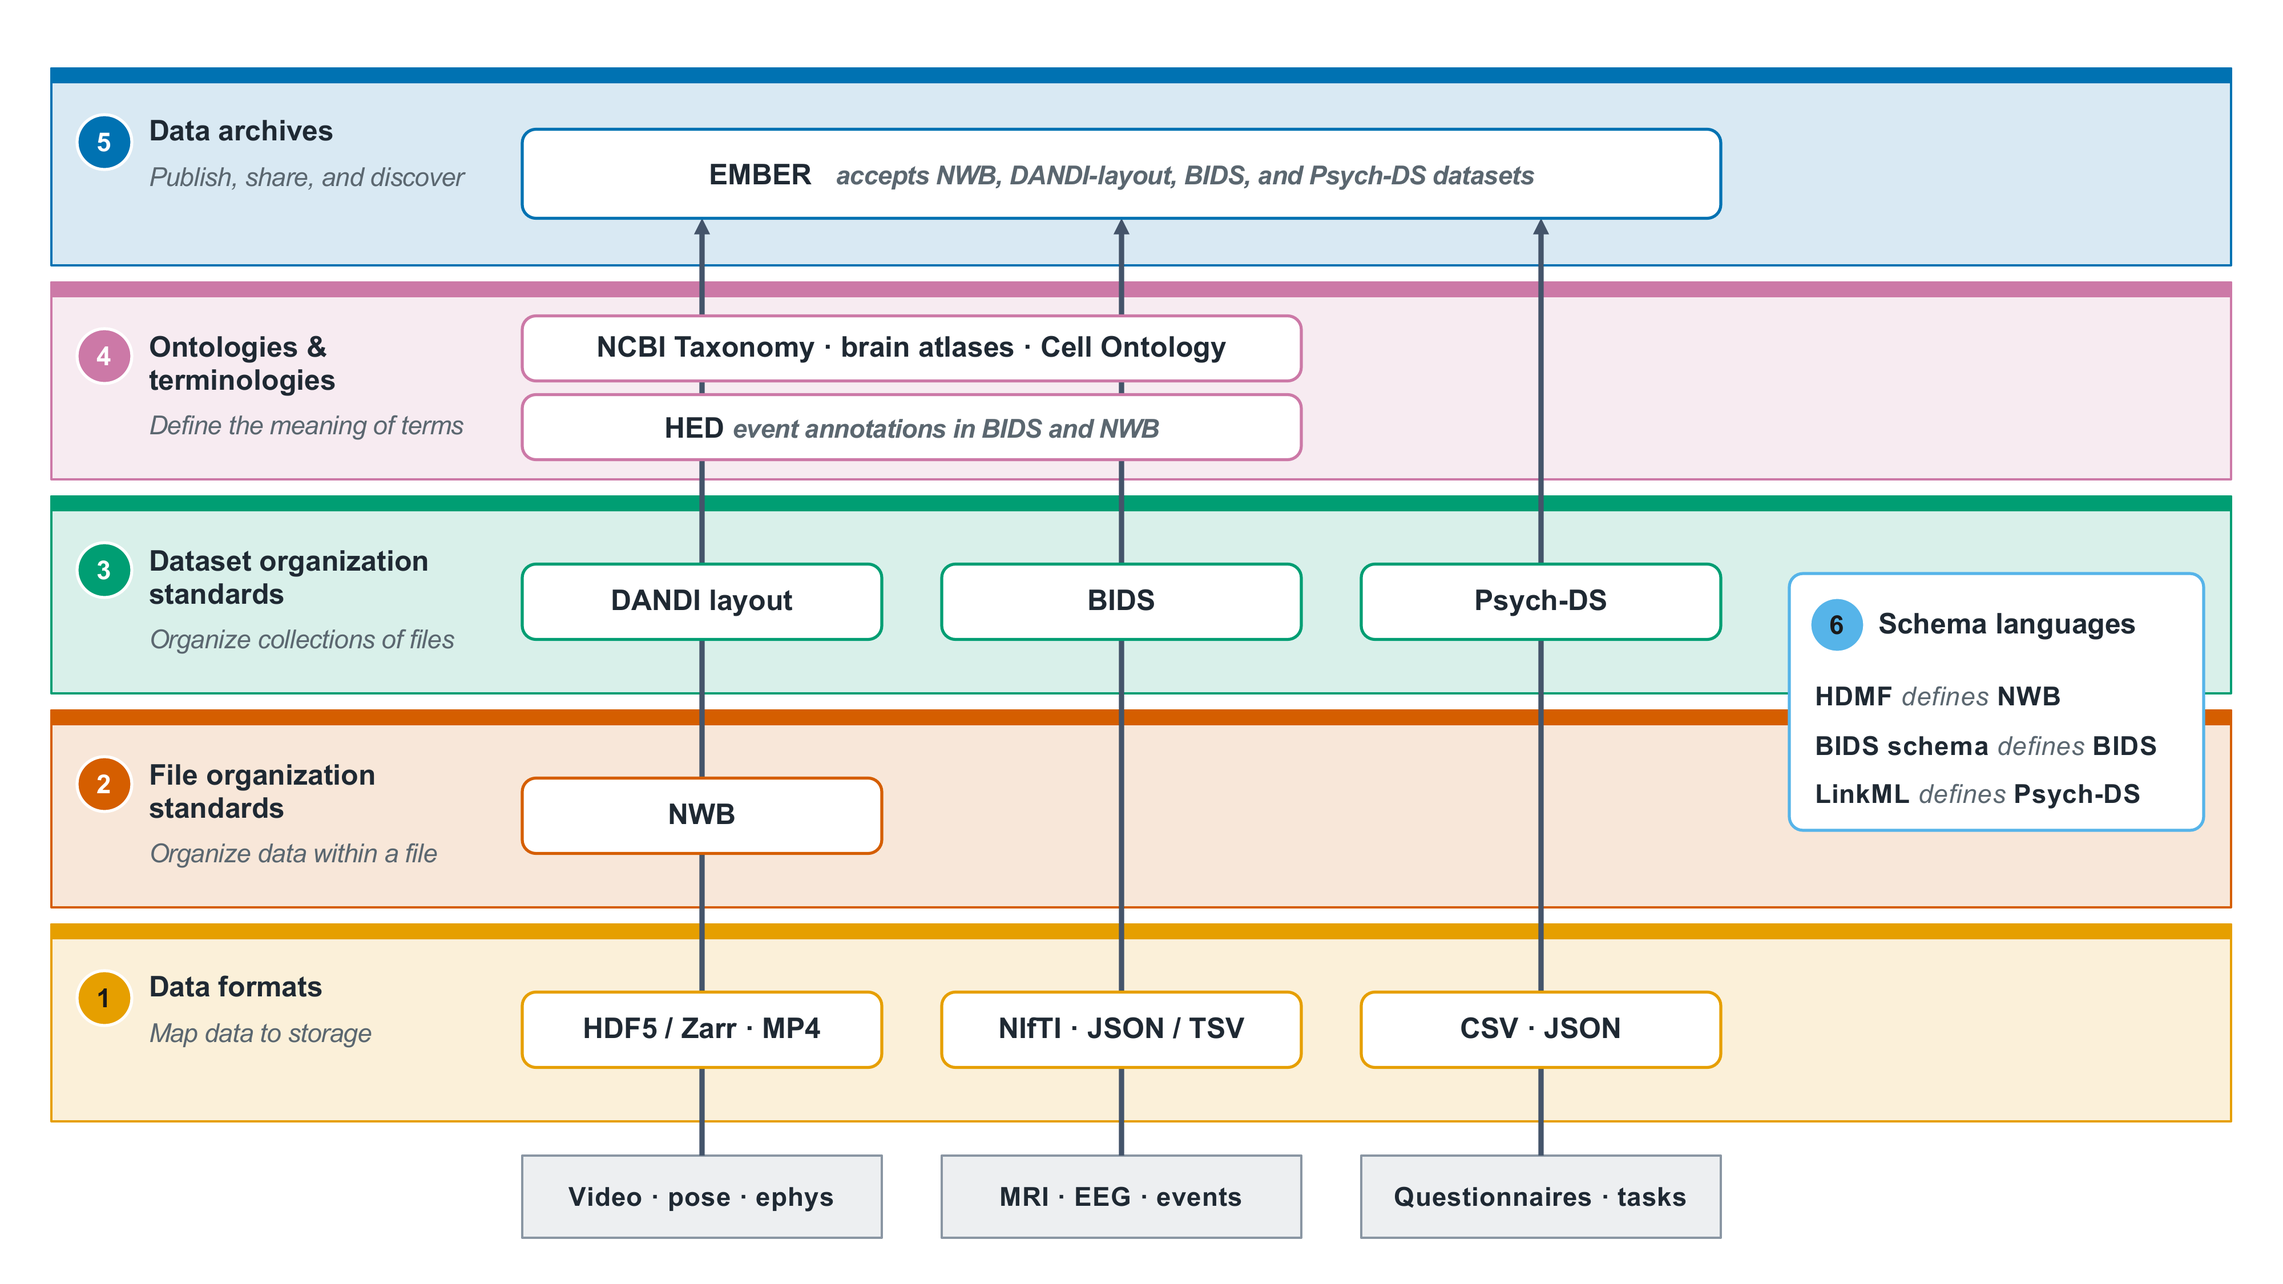
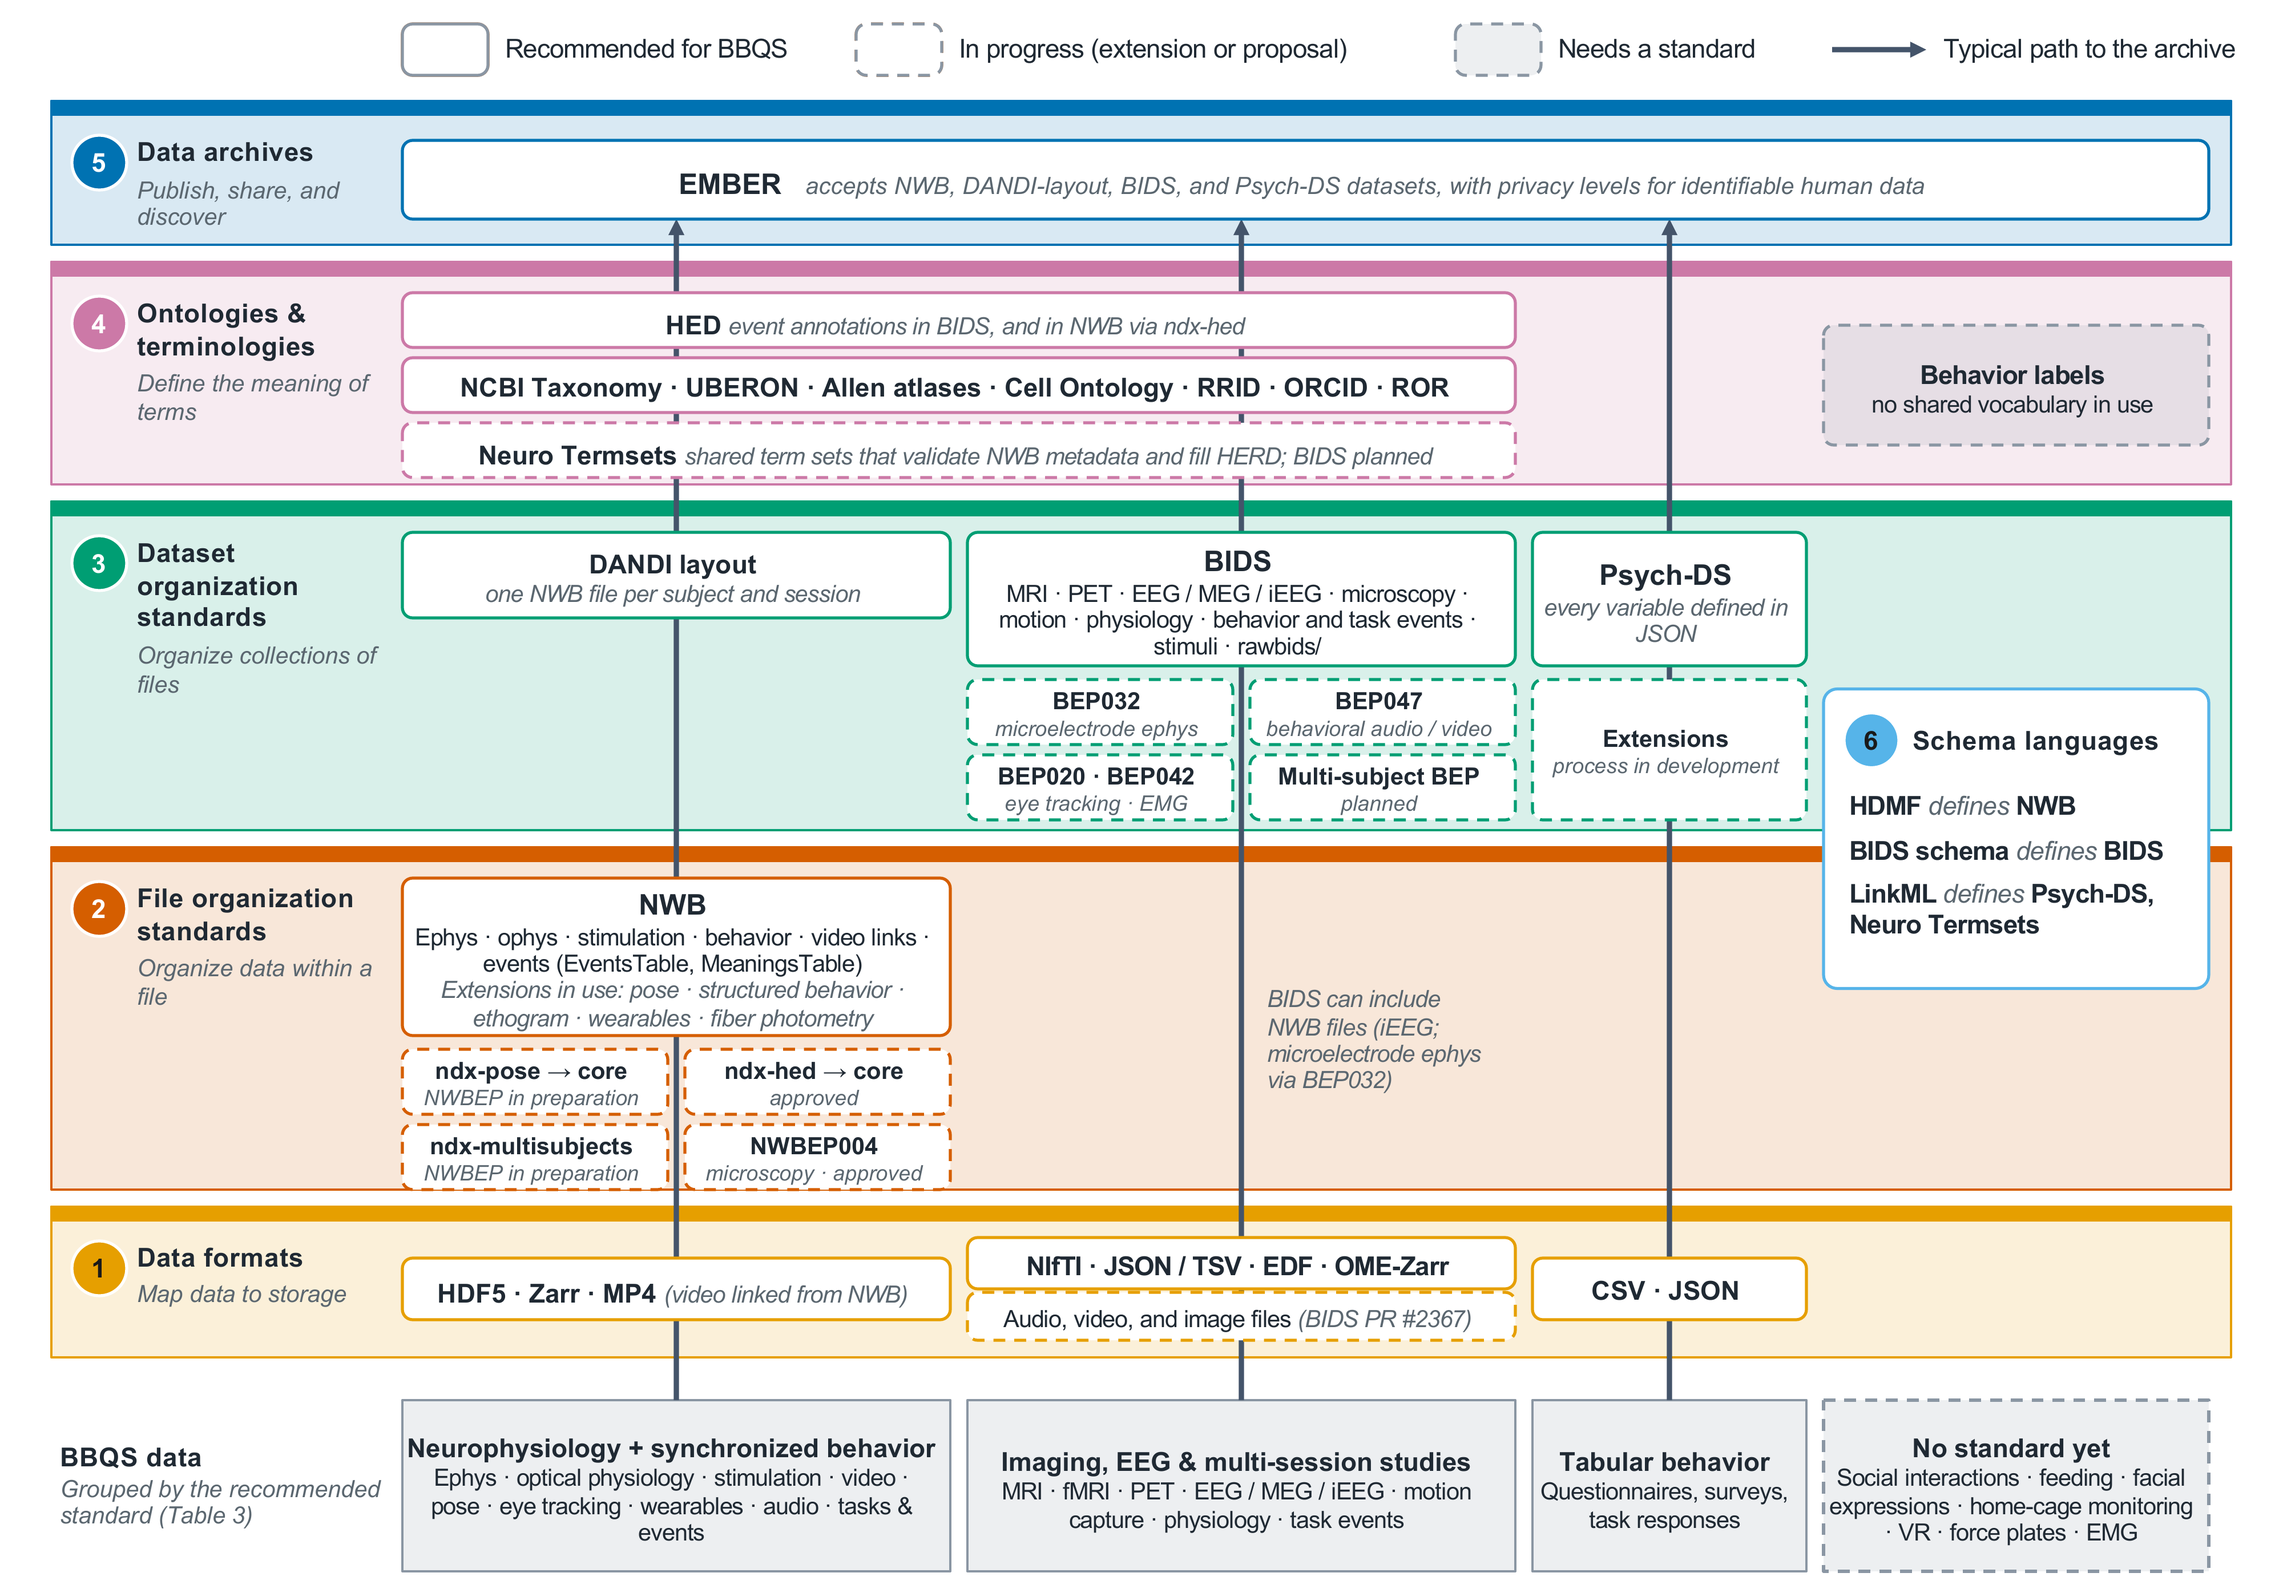
Fig. 5 design draft v2: detail from Table 3, work in progress, and gaps
Data groups follow Table 3; each layer shows what is recommended today,
NWBEPs/BEPs and other work in progress (dashed), and data without a
standard (grey). Status from the Standards4BBQS forum slides (Oct 2026).

diff --git a/figures/fig5_bbqs_stack/README.md b/figures/fig5_bbqs_stack/README.md
@@ -4,11 +4,11 @@
 |---|---|
 | Cited in | Section 6 |
 | Status | design draft (`fig5_bbqs_stack_design.pptx`, preview `fig5_bbqs_stack_design.png`); edit the .pptx directly; final artwork by designer |
-| Concept | The layers of the map as a stack in Table 1 order, from data formats (1) at the bottom to data archives (5) at the top, with the technologies BBQS recommends in each layer. Arrows climb from typical raw data through these technologies to EMBER, showing that the stack is complete in the vertical direction (Section 6). |
-| Rows | 1 HDF5/Zarr + MP4, NIfTI + JSON/TSV, CSV + JSON · 2 NWB · 3 DANDI layout, BIDS, Psych-DS · 4 NCBI Taxonomy, brain atlases, Cell Ontology; HED · 5 EMBER. Schema languages (6) are a box over rows 2–3, as in Fig. 2: HDMF defines NWB, the BIDS schema defines BIDS, LinkML defines Psych-DS. |
-| Paths | Video + pose + ephys → NWB → DANDI layout → EMBER; MRI + EEG + events → BIDS (+ HED) → EMBER; questionnaires + task responses → Psych-DS → EMBER. A path crossing a row without a chip does not use that layer. |
-| Draft choices | Styled like Fig. 2: Arial; layer rows with a light tint, coloured outline, top band, and numbered badge in the Fig. 1 colours (palette in `../fig1_ecosystem_map/README.md`); technologies as white chips outlined in their layer colour; raw data in grey (as Level 0 in Fig. 2); slate arrows. Stack geometry (D8): five stacked rows with schema languages as a box across rows 2–3, consistent with Fig. 2, rather than ontologies and schema languages as cross-cutting columns. The speaker notes describe the rows and paths. |
-| Source | Spec and legend in `draft/12_figures_tables.md`; content from Section 6 and Table 3. |
+| Concept | The layers of the map as a stack in Table 1 order, from data formats (1) at the bottom to data archives (5) at the top. BBQS data types (bottom) are grouped by the standard Table 3 recommends (NWB, BIDS, Psych-DS) plus a group with no standard yet; arrows climb from each group to EMBER. Each cell shows what is recommended today (solid), what is in progress (dashed: NWBEPs, BEPs, Neuro Termsets, BIDS media PR #2367, Psych-DS extension process), and what needs a standard (grey, dashed). |
+| Rows | 1 HDF5 · Zarr · MP4; NIfTI · JSON/TSV · EDF · OME-Zarr (+ BIDS media PR #2367); CSV · JSON · 2 NWB core (events and MeaningsTable since 2.10; extensions in use) with ndx-pose, ndx-hed, ndx-multisubjects, NWBEP004 in progress; note that BIDS can include NWB files · 3 DANDI layout; BIDS with BEP032, BEP047, BEP020/BEP042, multi-subject BEP in progress; Psych-DS with its extension process in development · 4 HED; NCBI Taxonomy, UBERON, Allen atlases, Cell Ontology, RRID, ORCID, ROR; Neuro Termsets in progress; behavior labels as a gap · 5 EMBER. Schema languages (6) are a box over rows 2–3, as in Fig. 2: HDMF → NWB, BIDS schema → BIDS, LinkML → Psych-DS and Neuro Termsets. |
+| Paths | Neurophysiology + synchronized behavior → NWB → DANDI layout → EMBER; imaging, EEG, and multi-session studies → BIDS → EMBER; tabular behavior → Psych-DS → EMBER. Data without a standard (social interactions, feeding, facial expressions, home-cage monitoring, VR, force plates, EMG; Table 3 gap row) have no path. |
+| Draft choices | Styled like Fig. 2: Arial; layer rows with a light tint, coloured outline, top band, and numbered badge in the Fig. 1 colours (palette in `../fig1_ecosystem_map/README.md`); technologies as white chips outlined in their layer colour; raw data in grey (as Level 0 in Fig. 2); in-progress items as dashed chips and gaps as grey dashed boxes; slate arrows; legend at the top. Canvas 13.33 × 9.3 in (same width as Figs. 1 and 2, taller for the detail). Stack geometry (D8): five stacked rows with schema languages as a box across rows 2–3, consistent with Fig. 2, rather than ontologies and schema languages as cross-cutting columns. The speaker notes describe the rows and paths. |
+| Source | Spec and legend in `draft/12_figures_tables.md`; content from Section 6, Table 3, the BBQS standards guideline, and the Standards4BBQS slides of the BBQS Forum (Oct 2026). Proposal status is as of Oct 2026 and must be rechecked before submission. |
 | Build | Not generated; the design draft .pptx is the editable source. The PNG preview is exported at 300 dpi; re-export it after editing the .pptx. Place the final artwork here. |
 | Legend | `draft/12_figures_tables.md` (single source for all legends) |
 | Open tasks | `plan/TODO.md`, section "3. Figures" (F3, F10) |

diff --git a/draft/12_figures_tables.md b/draft/12_figures_tables.md
@@ -94,12 +94,14 @@ only.
 
 ![Fig. 5 design draft](../figures/fig5_bbqs_stack/fig5_bbqs_stack_design.png)
 
-**BBQS has at least one recommended technology in every layer.** The layers of the map stacked in
-Table 1 order, from data formats (1) at the bottom to data archives (5) at the top, with the technologies
-recommended for BBQS; schema languages (6) define the file and dataset organization standards. Arrows
-show three typical paths from raw data to the EMBER archive: video, pose, and electrophysiology through
-NWB and the DANDI layout; MRI, EEG, and events through BIDS; and questionnaires and task responses
-through Psych-DS. A path that crosses a row without a technology does not use that layer.
+**BBQS has at least one recommended technology in every layer, and work in progress targets the gaps.**
+The layers of the map stacked in Table 1 order, from data formats (1) at the bottom to data archives (5)
+at the top; schema languages (6) define the file and dataset organization standards. BBQS data types
+(bottom) are grouped by the standard Table 3 recommends, and arrows show their paths to the EMBER archive
+through NWB and the DANDI layout, BIDS, and Psych-DS. Solid boxes are recommended today. Dashed boxes are
+extensions and proposals in progress, such as NWB Enhancement Proposals (NWBEP) and BIDS Extension
+Proposals (BEP). Grey dashed boxes are data and metadata that have no recommended standard yet (Section 8).
+The status of proposals is as of October 2026.
 
 ## Table 3 — Recommended standards for common BBQS data types
 

diff --git a/plan/TODO.md b/plan/TODO.md
@@ -133,9 +133,12 @@ Rebuild generated figures with `make figures`.
       the speaker notes; the RDA mapping is only in Suppl. Table S1) *(OR)*.
 - [ ] **F9** Re-export the PNG previews of Fig. 1 and Fig. 2 from PowerPoint after the layer renumbering
       (the .pptx files are updated; the PNGs still show the old numbers) *(OR)*.
-- [ ] **F10** Review the Fig. 5 design draft (`figures/fig5_bbqs_stack/fig5_bbqs_stack_design.pptx`): stack
-      geometry (D8), the technologies in each row, and the three data paths; check with the BBQS WG that these
-      are the recommended paths (Section 6, Table 3) *(OR, WG)*.
+- [ ] **F10** Review the Fig. 5 design draft v2 (`figures/fig5_bbqs_stack/fig5_bbqs_stack_design.pptx`): stack
+      geometry (D8), the data groups and paths (Table 3), and the status of each in-progress item (NWBEPs, BEPs,
+      Neuro Termsets, BIDS PR #2367, Psych-DS extensions; status as of the Oct 2026 forum). Check with the
+      BBQS WG and the NWB, BIDS, and Psych-DS teams (C17, C37); recheck status before submission *(OR, WG)*.
+      Table 3 follow-ups the figure raises: raw video and audio in BIDS → "ext. (BEP047)"; questionnaires in
+      BIDS "partial" (phenotype/); a row or note for multi-subject data (ndx-multisubjects, planned BEP).
 - [ ] **F8** Suppl. Table S1 (in `draft/12_figures_tables.md`): review the layer contributions
       with a FAIR expert (C6); export as a spreadsheet for the supplement *(core, Claude)*.
 
